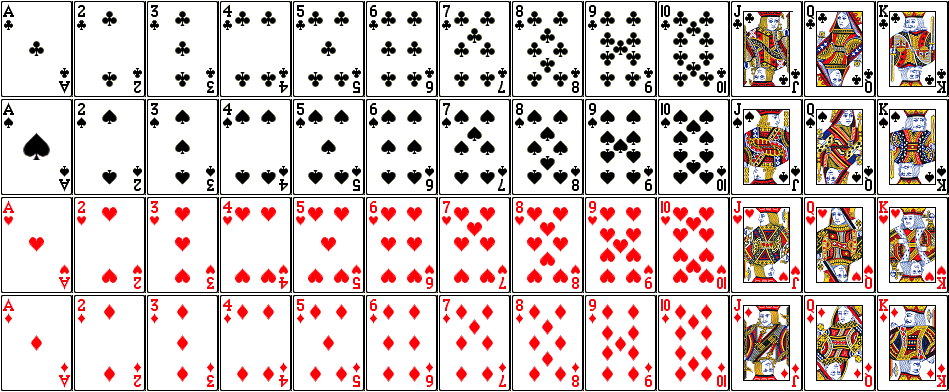
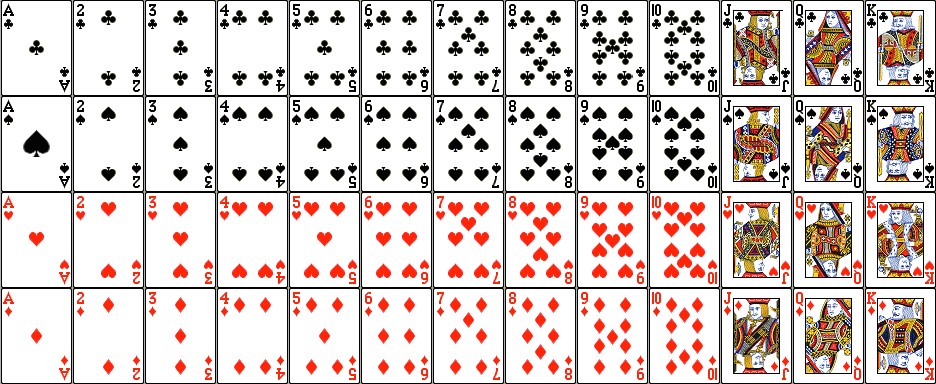
imágenes para blackjack

diff --git a/mini-project-6/blackjack.py b/mini-project-6/blackjack.py
@@ -6,11 +6,11 @@ import random
 # load card sprite - 936x384
 CARD_SIZE = (72, 96)
 CARD_CENTER = (36, 48)
-card_images = simplegui.load_image("http://storage.googleapis.com/codeskulptor-assets/cards_jfitz.png")
+card_images = simplegui.load_image("https://raw.githubusercontent.com/EduIbanez/introduction-programming-python/master/mini-project-6/images/cards.png")
 
 CARD_BACK_SIZE = (72, 96)
 CARD_BACK_CENTER = (36, 48)
-card_back = simplegui.load_image("http://storage.googleapis.com/codeskulptor-assets/card_jfitz_back.png")    
+card_back = simplegui.load_image("https://raw.githubusercontent.com/EduIbanez/introduction-programming-python/master/mini-project-6/images/cards_back.png")
 
 # initialize some useful global variables
 in_play = False
@@ -31,7 +31,7 @@ class Card:
         else:
             self.suit = None
             self.rank = None
-            print "Invalid card: ", suit, rank
+            print("Invalid card: ", suit, rank)
 
     def __str__(self):
         return self.suit + self.rank
@@ -101,7 +101,7 @@ class Deck:
         if len(self.list_cards) > 0:
             card = self.list_cards.pop(0)
         else:
-            print "Empty deck"
+            print("Empty deck")
         return card
     
     def __str__(self):
@@ -148,9 +148,7 @@ def hit():
 def stand():
     global outcome, message, score, in_play
     # if hand is in play, repeatedly hit dealer until his hand has value 17 or more
-    if player.get_value() > 21:
-        message = "You went bust and lose"
-    elif in_play:
+    if in_play:
         while dealer.get_value() < 17:
             dealer.add_card(deck.deal_card())
         if dealer.get_value() > 21:
@@ -185,9 +183,9 @@ frame = simplegui.create_frame("Blackjack", 600, 600)
 frame.set_canvas_background("Green")
 
 #create buttons and canvas callback
-frame.add_button("Deal", deal, 200)
-frame.add_button("Hit",  hit, 200)
-frame.add_button("Stand", stand, 200)
+frame.add_button("Deal", deal, 50)
+frame.add_button("Hit",  hit, 50)
+frame.add_button("Stand", stand, 50)
 frame.set_draw_handler(draw)
 
 # get things rolling
